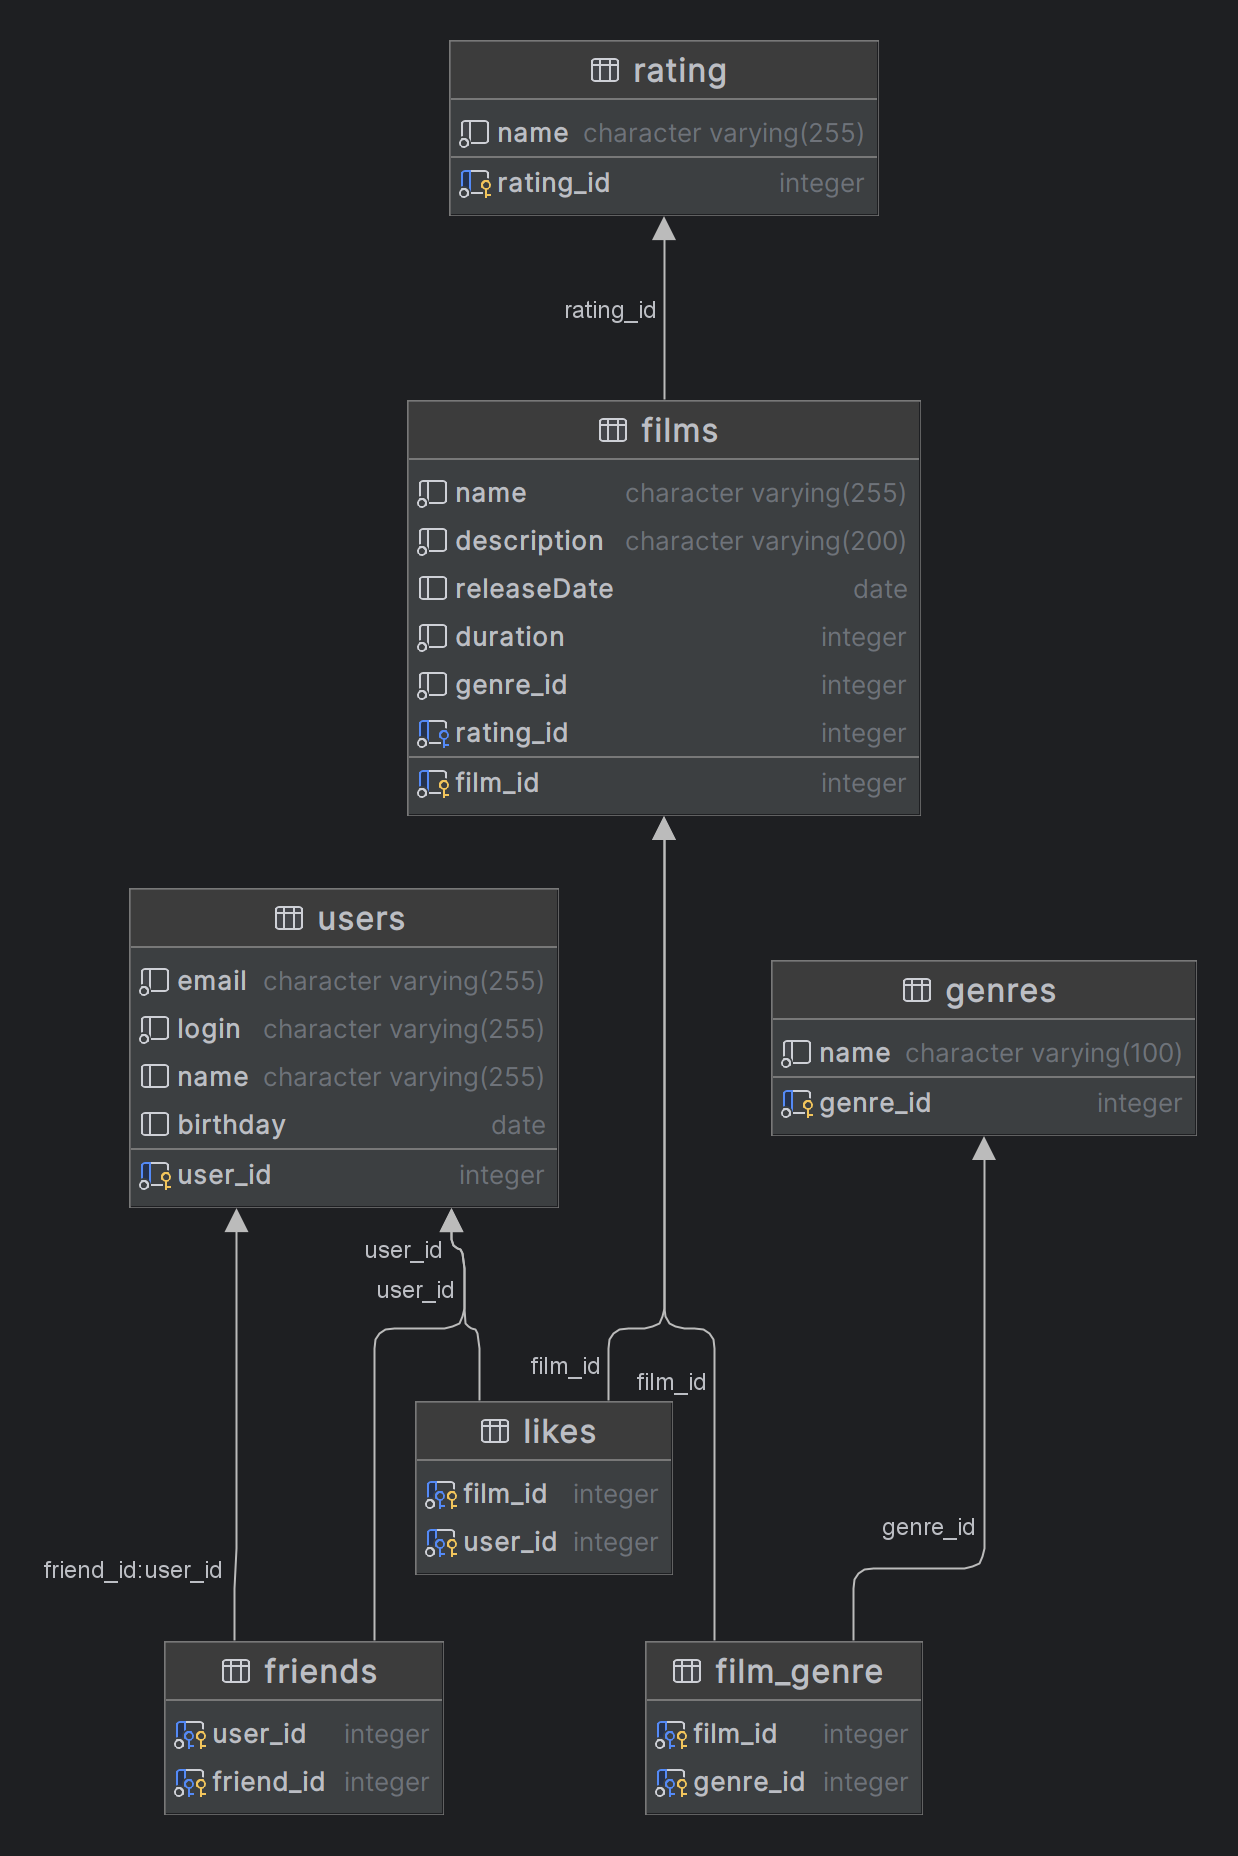
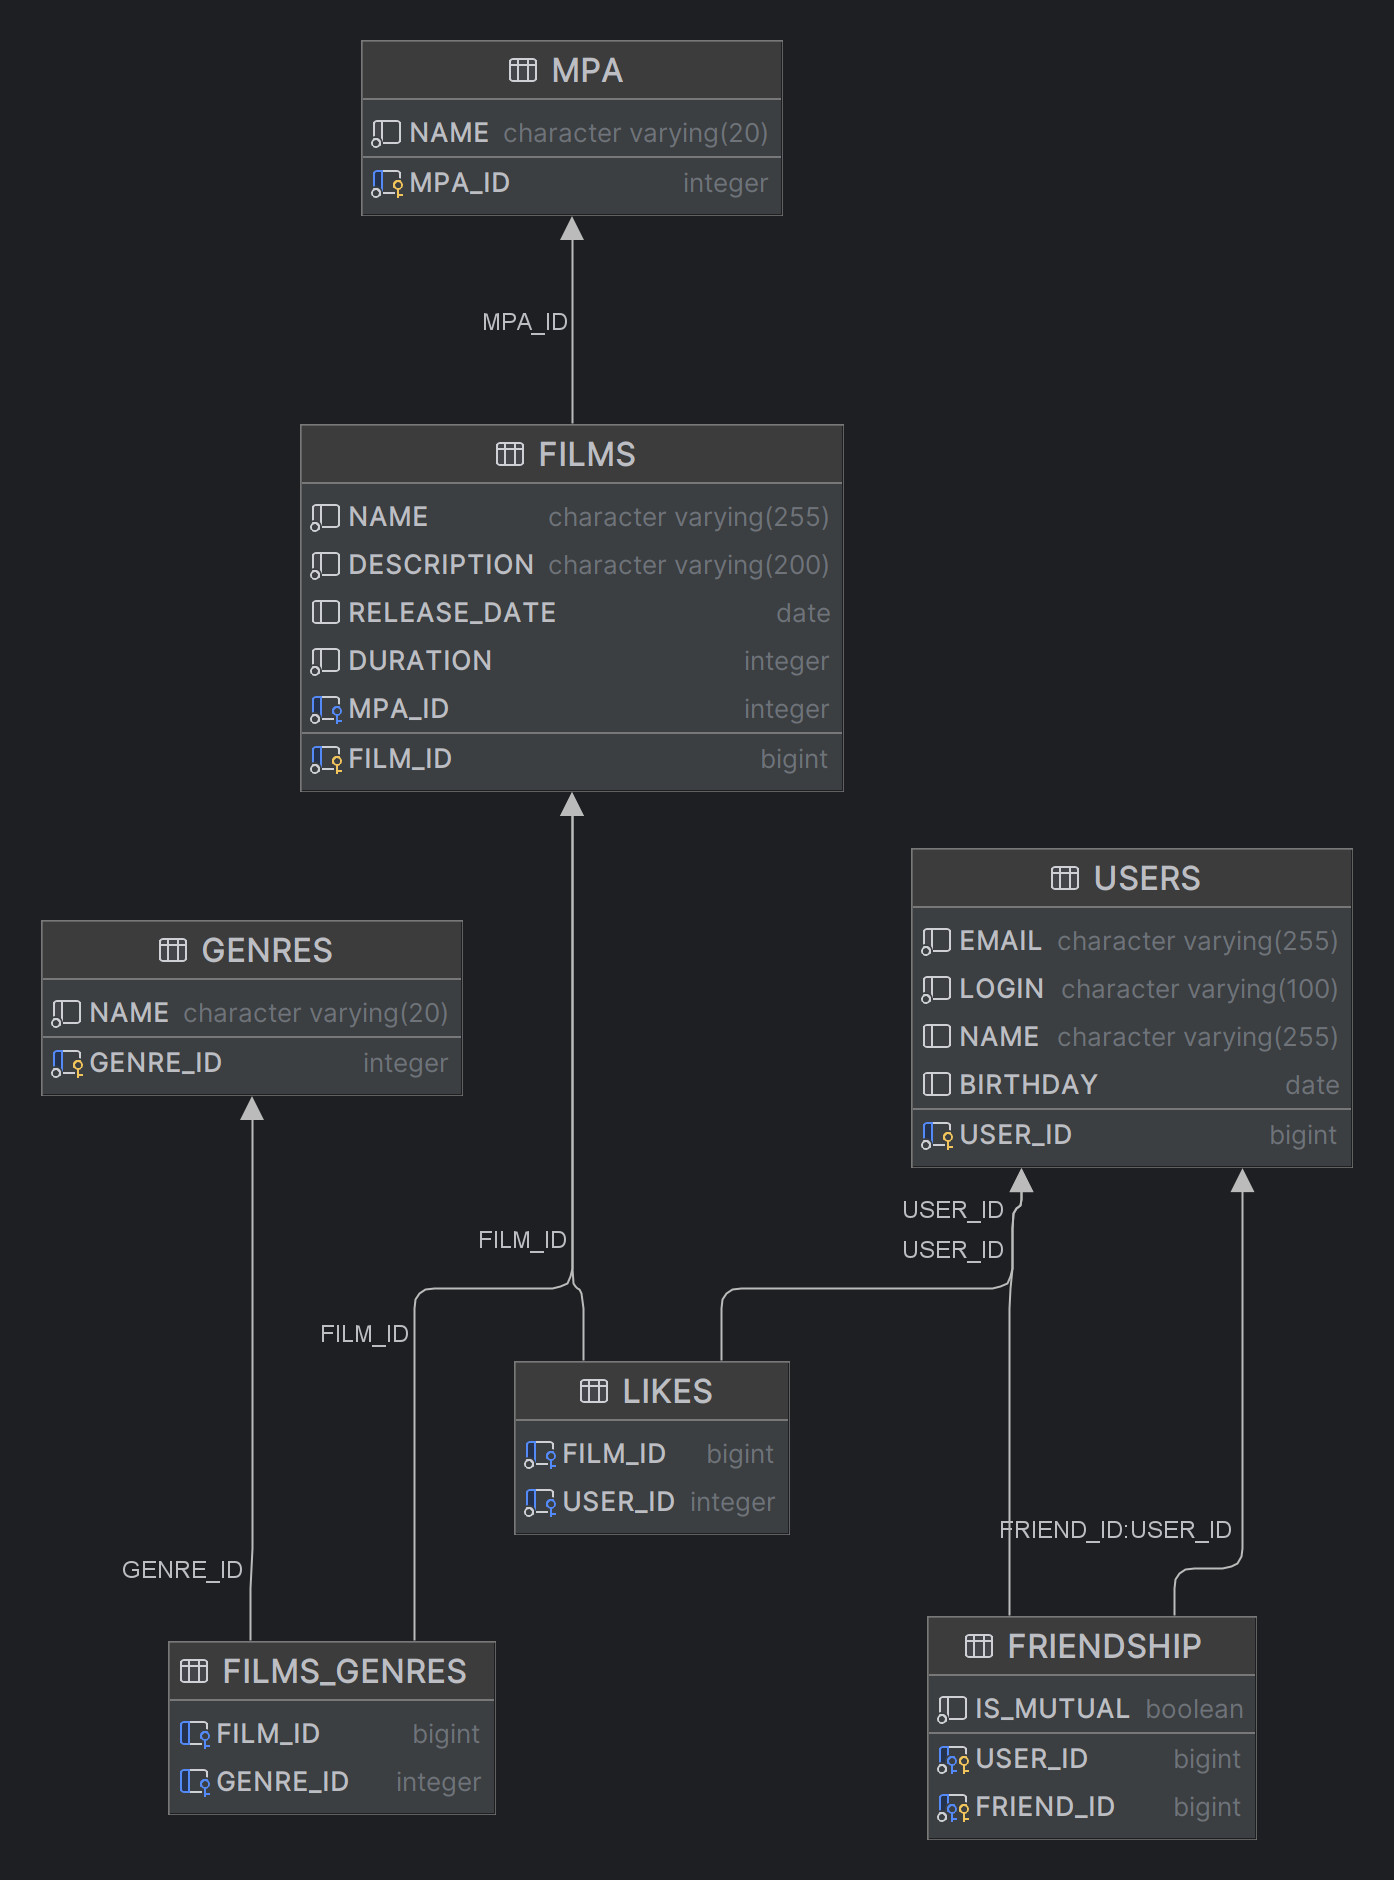
Исправил базу данных

Changed region(s): [[0.0307, 0.0, 0.9822, 1.0], [0.5218, 0.7812, 0.9208, 1.0]]

diff --git a/src/main/java/ru/yandex/practicum/filmorate/dao/user/JdbcUserRepository.java b/src/main/java/ru/yandex/practicum/filmorate/dao/user/JdbcUserRepository.java
@@ -5,7 +5,7 @@ import org.springframework.jdbc.core.namedparam.MapSqlParameterSource;
 import org.springframework.jdbc.core.namedparam.NamedParameterJdbcOperations;
 import org.springframework.jdbc.support.GeneratedKeyHolder;
 import org.springframework.stereotype.Repository;
-import ru.yandex.practicum.filmorate.dao.mapper.UserRowMapper;
+import ru.yandex.practicum.filmorate.dao.mappers.UserRowMapper;
 import ru.yandex.practicum.filmorate.model.User;
 
 import java.util.List;
@@ -21,7 +21,8 @@ public class JdbcUserRepository implements UserRepository {
 
     @Override
     public Optional<User> getById(long userId) {
-        return Optional.empty();
+        return Optional.ofNullable(jdbcOperations.queryForObject("SELECT * FROM users WHERE user_id =:userId",
+                Map.of("userId", userId), userRowMapper));
     }
 
     @Override
@@ -32,16 +33,15 @@ public class JdbcUserRepository implements UserRepository {
     @Override
     public User save(User user) {
         GeneratedKeyHolder keyHolder = new GeneratedKeyHolder();
-        Map<String, Object> map = Map.of("email", user.getEmail(),
-                "login", user.getLogin(),
-                "name", user.getName(),
-                "birthday", user.getBirthday());
-        MapSqlParameterSource params = new MapSqlParameterSource();
-        params.addValues(map);
-        jdbcOperations.update("INSERT INTO users (email,login,name,birthday)" +
-                        " VALUES(:email,:login,:name,:birthday)",
-                params, keyHolder, new String[]{"user_id"});
-        user.setId(keyHolder.getKeyAs(Long.class));
+        Map<String, Object> map = Map.of("EMAIL", user.getEmail(),
+                "LOGIN", user.getLogin(),
+                "NAME", user.getName(),
+                "BIRTHDAY", user.getBirthday());
+        MapSqlParameterSource params = new MapSqlParameterSource(map);
+        String sql = "INSERT INTO USERS (EMAIL,LOGIN,NAME,BIRTHDAY)" +
+                " VALUES(:EMAIL,:LOGIN,:NAME,:BIRTHDAY)";
+        jdbcOperations.update(sql, params, keyHolder);
+        user.setId(keyHolder.getKey().longValue());
         return user;
     }
 
@@ -53,13 +53,13 @@ public class JdbcUserRepository implements UserRepository {
 
     @Override
     public void addFriend(User user, User friend) {
-        jdbcOperations.update("INSERT INTO friends (user_id, friend_id) VALUES (:userId, :friendId)",
+        jdbcOperations.update("INSERT INTO FRIENDSHIP (user_id, friend_id) VALUES (:userId, :friendId)",
                 Map.of("userId", user.getId(), "friendId", friend.getId()));
     }
 
     @Override
     public void deleteFriend(User user, User friend) {
-        jdbcOperations.update("DElETE FROM friends WHERE user_id = :userId AND friend_id = :friendId",
+        jdbcOperations.update("DElETE FROM FRIENDSHIP WHERE user_id = :userId AND friend_id = :friendId",
                 Map.of("userId", user.getId(), "friendId", friend.getId()));
     }
 

diff --git a/src/main/java/ru/yandex/practicum/filmorate/service/user/GeneralUserService.java b/src/main/java/ru/yandex/practicum/filmorate/service/user/GeneralUserService.java
@@ -1,11 +1,12 @@
 package ru.yandex.practicum.filmorate.service.user;
 
 import lombok.RequiredArgsConstructor;
-import org.springframework.beans.factory.annotation.Autowired;
 import org.springframework.stereotype.Service;
-import ru.yandex.practicum.filmorate.exception.NotFoundException;
-import ru.yandex.practicum.filmorate.model.User;
+import ru.yandex.practicum.filmorate.dao.dto.UserDto;
 import ru.yandex.practicum.filmorate.dao.user.UserRepository;
+import ru.yandex.practicum.filmorate.exception.NotFoundException;
+import ru.yandex.practicum.filmorate.mapper.UserMapper;
+import ru.yandex.practicum.filmorate.model.User;
 
 import java.util.ArrayList;
 import java.util.List;
@@ -18,26 +19,27 @@ public class GeneralUserService implements UserService {
     private final UserRepository userRepository;
 
     @Override
-    public User create(User user) {
+    public UserDto create(User user) {
         if (user.getName() == null || user.getName().isEmpty()) {
             user.setName(user.getLogin());
         }
-        return userRepository.save(user);
+        return UserMapper.mapToUserDto(userRepository.save(user));
     }
 
     @Override
-    public User update(User user) {
+    public UserDto update(User user) {
         long userId = user.getId();
         Optional<User> savedUSer = userRepository.getById(userId);
         if (savedUSer.isEmpty()) {
             throw new NotFoundException("User not found with id: " + userId);
         }
-        return userRepository.save(user);
+        return UserMapper.mapToUserDto(userRepository.save(user));
     }
 
     @Override
-    public User get(long userId) {
-        return userRepository.getById(userId).orElseThrow(() -> new NotFoundException("User not found with id: " + userId));
+    public UserDto get(long userId) {
+        return UserMapper.mapToUserDto(userRepository.getById(userId).orElseThrow(()
+                -> new NotFoundException("User not found with id: " + userId)));
     }
 
     @Override

diff --git a/src/main/java/ru/yandex/practicum/filmorate/controller/UserController.java b/src/main/java/ru/yandex/practicum/filmorate/controller/UserController.java
@@ -7,6 +7,7 @@ import lombok.extern.slf4j.Slf4j;
 import org.springframework.http.HttpStatus;
 import org.springframework.validation.annotation.Validated;
 import org.springframework.web.bind.annotation.*;
+import ru.yandex.practicum.filmorate.dao.dto.UserDto;
 import ru.yandex.practicum.filmorate.model.Marker.Update;
 import ru.yandex.practicum.filmorate.model.User;
 import ru.yandex.practicum.filmorate.service.user.UserService;
@@ -25,6 +26,11 @@ public class UserController {
     @GetMapping
     public List<User> getAllUsers() {
         return userService.getAll();
+    }
+
+    @GetMapping("/{id}")
+    public UserDto getUserById(@PathVariable int id) {
+        return userService.get(id);
     }
 
     @PostMapping

diff --git a/src/main/java/ru/yandex/practicum/filmorate/dao/film/JdbcFilmRepository.java b/src/main/java/ru/yandex/practicum/filmorate/dao/film/JdbcFilmRepository.java
@@ -5,8 +5,8 @@ import org.springframework.jdbc.core.namedparam.MapSqlParameterSource;
 import org.springframework.jdbc.core.namedparam.NamedParameterJdbcOperations;
 import org.springframework.jdbc.support.GeneratedKeyHolder;
 import org.springframework.stereotype.Repository;
-import ru.yandex.practicum.filmorate.dao.mapper.FilmExtractor;
-import ru.yandex.practicum.filmorate.dao.mapper.FilmRowMapper;
+import ru.yandex.practicum.filmorate.dao.mappers.FilmExtractor;
+import ru.yandex.practicum.filmorate.dao.mappers.FilmRowMapper;
 import ru.yandex.practicum.filmorate.model.Film;
 import ru.yandex.practicum.filmorate.model.User;
 

diff --git a/src/main/java/ru/yandex/practicum/filmorate/mapper/UserMapper.java b/src/main/java/ru/yandex/practicum/filmorate/mapper/UserMapper.java
@@ -1,0 +1,18 @@
+package ru.yandex.practicum.filmorate.mapper;
+
+import lombok.AccessLevel;
+import lombok.NoArgsConstructor;
+import ru.yandex.practicum.filmorate.dao.dto.UserDto;
+import ru.yandex.practicum.filmorate.model.User;
+
+@NoArgsConstructor(access = AccessLevel.PRIVATE)
+public final class UserMapper {
+    public static UserDto mapToUserDto(User user) {
+        UserDto dto = new UserDto();
+        dto.setId(user.getId());
+        dto.setName(user.getName());
+        dto.setEmail(user.getEmail());
+        dto.setBirthday(user.getBirthday());
+        return dto;
+    }
+}

diff --git a/src/main/java/ru/yandex/practicum/filmorate/service/user/UserService.java b/src/main/java/ru/yandex/practicum/filmorate/service/user/UserService.java
@@ -1,6 +1,7 @@
 package ru.yandex.practicum.filmorate.service.user;
 
 import org.springframework.stereotype.Service;
+import ru.yandex.practicum.filmorate.dao.dto.UserDto;
 import ru.yandex.practicum.filmorate.model.User;
 
 import java.util.List;
@@ -8,11 +9,11 @@ import java.util.List;
 @Service
 public interface UserService {
 
-    User create(User user);
+    UserDto create(User user);
 
-    User update(User user);
+    UserDto update(User user);
 
-    User get(long userId);
+    UserDto get(long userId);
 
     void addFriend(long userId, long friendId);
 

diff --git a/src/main/java/ru/yandex/practicum/filmorate/dao/dto/UserDto.java b/src/main/java/ru/yandex/practicum/filmorate/dao/dto/UserDto.java
@@ -1,0 +1,16 @@
+package ru.yandex.practicum.filmorate.dao.dto;
+
+import com.fasterxml.jackson.annotation.JsonProperty;
+import lombok.Data;
+
+import java.time.LocalDate;
+
+@Data
+public class UserDto {
+    @JsonProperty(access = JsonProperty.Access.READ_ONLY)
+    private Long id;
+    private String name;
+    private String email;
+    private String login;
+    private LocalDate birthday;
+}

diff --git a/src/main/java/ru/yandex/practicum/filmorate/dao/mappers/FilmExtractor.java b/src/main/java/ru/yandex/practicum/filmorate/dao/mappers/FilmExtractor.java
@@ -1,4 +1,4 @@
-package ru.yandex.practicum.filmorate.dao.mapper;
+package ru.yandex.practicum.filmorate.dao.mappers;
 
 import org.springframework.dao.DataAccessException;
 import org.springframework.jdbc.core.ResultSetExtractor;

diff --git a/src/main/java/ru/yandex/practicum/filmorate/dao/mappers/FilmRowMapper.java b/src/main/java/ru/yandex/practicum/filmorate/dao/mappers/FilmRowMapper.java
@@ -1,4 +1,4 @@
-package ru.yandex.practicum.filmorate.dao.mapper;
+package ru.yandex.practicum.filmorate.dao.mappers;
 
 import org.springframework.jdbc.core.RowMapper;
 import org.springframework.stereotype.Component;

diff --git a/src/main/java/ru/yandex/practicum/filmorate/dao/mappers/UserRowMapper.java b/src/main/java/ru/yandex/practicum/filmorate/dao/mappers/UserRowMapper.java
@@ -1,4 +1,4 @@
-package ru.yandex.practicum.filmorate.dao.mapper;
+package ru.yandex.practicum.filmorate.dao.mappers;
 
 import org.springframework.jdbc.core.RowMapper;
 import org.springframework.stereotype.Component;
